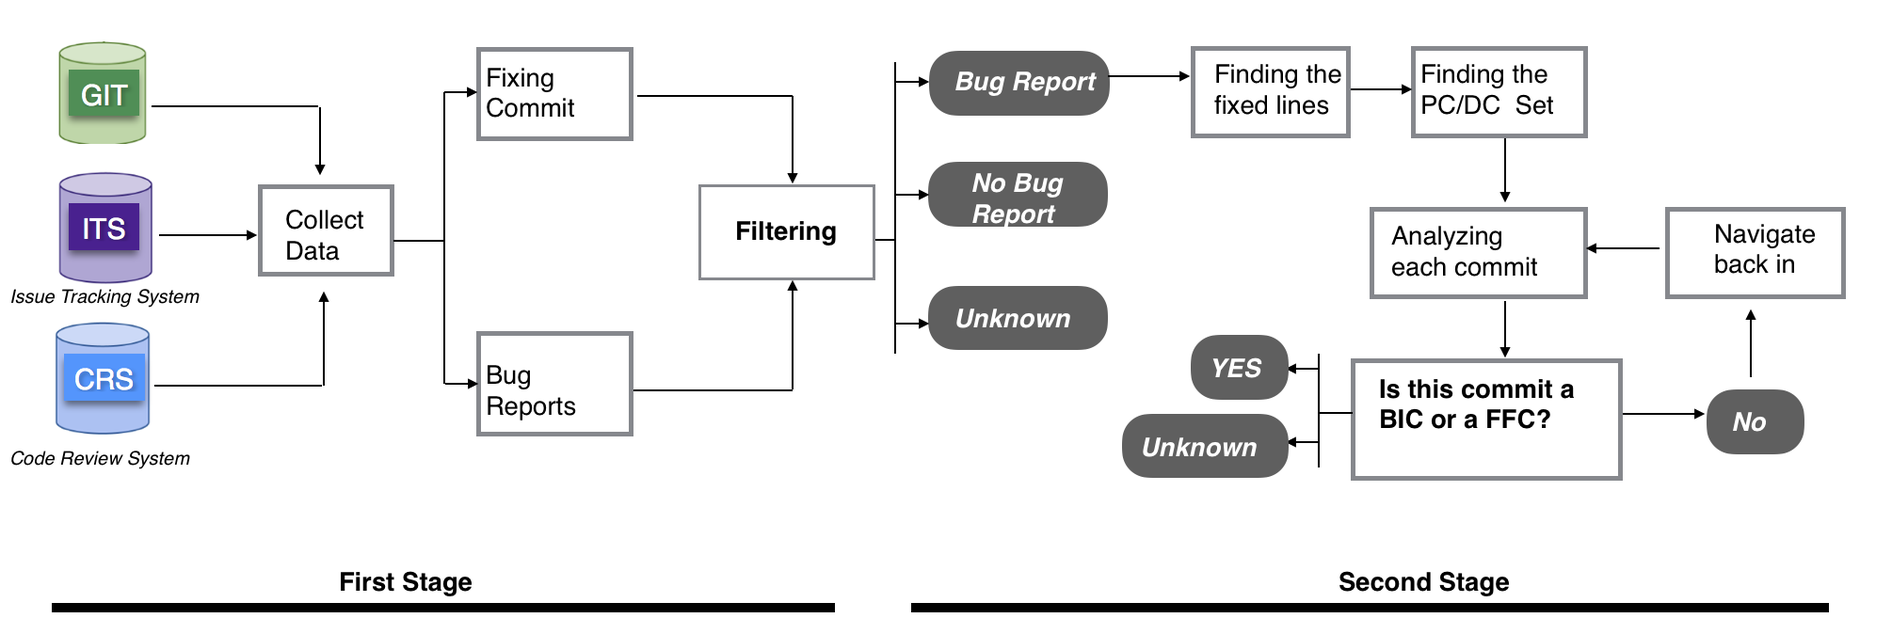
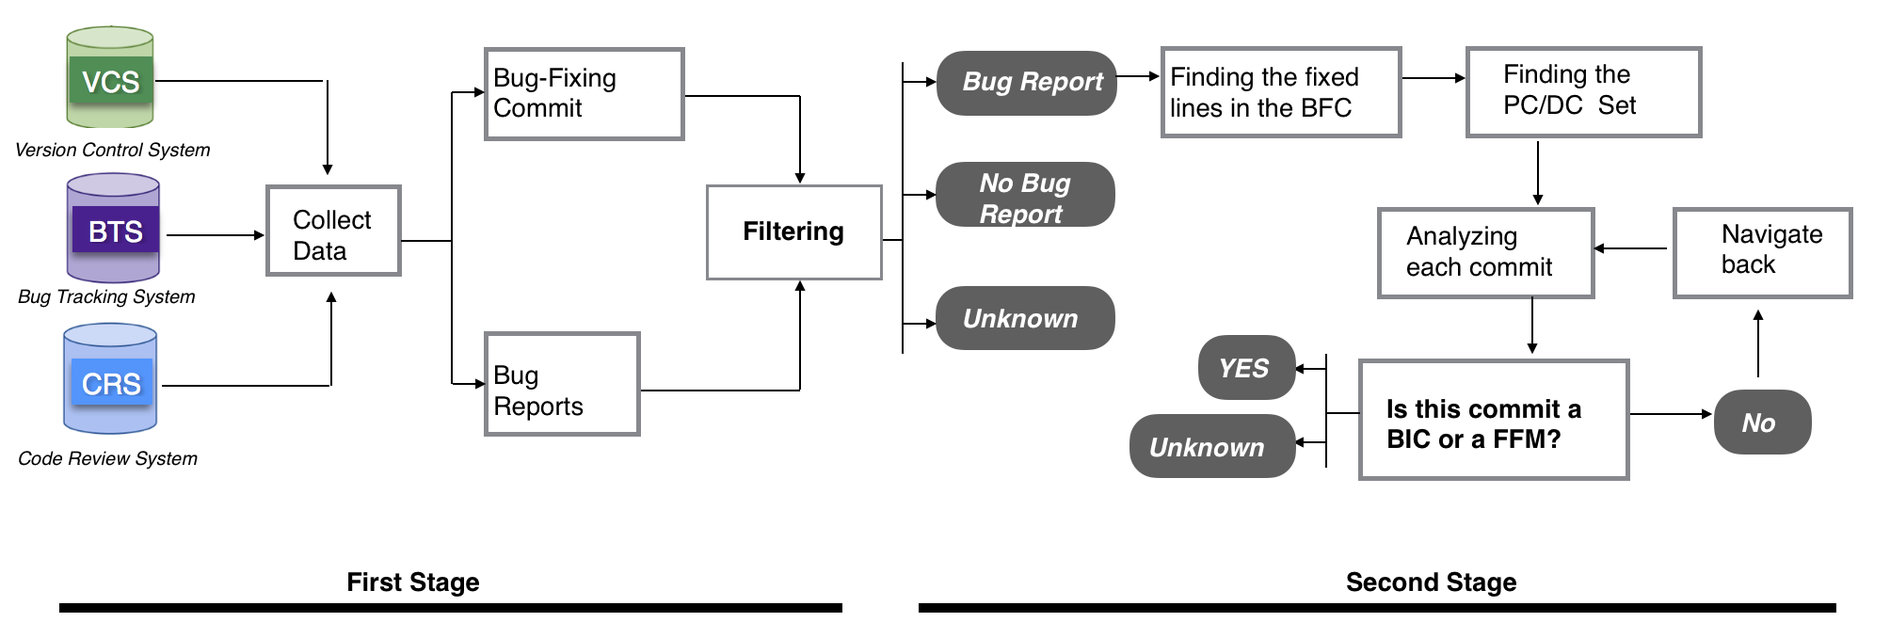
Chapter 6 until results

diff --git a/memoria.tex b/memoria.tex
@@ -1792,23 +1792,23 @@ Figure~\ref{fig:algoritmo} presents the decision tree in order find the \BIC, wh
 \cleardoublepage
 \chapter{Empirical Study on the Applicability of the Theory}
 \label{chap:application}
-This chapter presents an empirical study on the applicability of the theoretical model that was presented before in the Chapter~\ref{chap:Theory}. The empirical study was carried out through analyzing the publicity of available data sources from two OSS projects, Nova and ElasticSearch, and it can be extended to others projects as long as they use VCS and bug-tracking systems. The goal of this thesis is to describe a model to identify unequivocally the bug introduction commit or to determine whether it exists given a Bug-Fixing Commit. Furthermore, this model enables to define the ``gold standard'' to be defined where commits in the repositories are \BIC. 
+This chapter presents an empirical study on the applicability of the theoretical model that was presented before in Chapter~\ref{chap:Theory}. The empirical study was carried out through analyzing the public data sources from two OSS projects, Nova and ElasticSearch. This study can be extended to others projects as long as they use VCS and bug-tracking systems. The goal of this Chapter is the application of the proposed model, that defines the code change that introduced a bug or determines whether it exists given a Bug-Fixing Commit (\emph{BFC}). Furthermore, this model enables to define the ``gold standard'' to be defined where commits in the repositories are Bug-Introducing Commits (\emph{BICs}). 
 
-This chapter is divided into three sections. The first part it is a brief analysis that describes the projects Nova and ElasticSearch and arguments its election as cases of study to identify the origin of the bugs.
+This chapter is divided into three sections. The first part is a brief analysis that describes the projects and arguments its election as cases of study to identify the origin of the bugs.
 
-The second part clearly defines the methodology to manually analyze and identify the Bug-Introducing Commit given a Bug-Fixing Commit. This methodology explains how the raw dataset has been filtered and details a step by step approach to the stages to identify or discard the \BIC from a specific bug report.  
+The second part clearly defines the methodology to manually analyze and identify the \BIC given a \BFC. This methodology explains how the raw dataset has been filtered and details a step by step approach to the stages to identify or discard the \BIC from a specific \BFC.  
 
-Lastly, the third part presents the results after applying the model into Nova and ElasticSearch project. The results give more insight into the problem of correctly finding the \BIC by comparing the ``gold standard'' previously identified, with the performance of some state-of-the-art approaches. It computes the \emph{real} false positives and false negatives. %At the end, there is a discussion to confer the impact of the results in the community.  
+Lastly, the third part presents the results after applying the model into Nova and ElasticSearch. The results give more insight into the problem of correctly finding the \BIC by comparing the ``gold standard'' previously identified, with the performance of some state-of-the-art approaches. It computes the \emph{real} false positives and false negatives. %At the end, there is a discussion to confer the impact of the results in the community.  
 
-\section{Case study and datasets}
+\section{Case studies and datasets}
 \label{sec:case}
-There are two cases of study that are explained in subsections 6.1.1 and 6.1.2. Both projects have similar characteristics that are interesting and worthwhile to study, but they also have some differences that enables the results to be extended to other open source projects.  
+There are two case studies that are explained in subsections 6.1.1 and 6.1.2. Both projects have similar characteristics that are interesting and worthwhile to study, however, they also have some differences that may enable the results to be extended to other open source projects.  
 
 \subsection{Nova}
 \label{subsec:Nova}
 
 %We have validated our methodology using the \emph{Grounded Theory}~\cite{charmaz2014constructing} to analyze tickets from two different Open Source projects.
-Nova is the most active module of OpenStack project in terms of contributions. OpenStack is a cloud computing platform that is used to build a SaaS (software as a service) with a huge development community thereby making it an interesting project to study. OpenStack has a considerable growth of approximately 350 times in code size and 250 times in number of commits since its first release in November 2009.  Currently, it counts with more than 7,900 contributors, and significant industrial support from several major companies such as Red Hat, Huawei, IBM, HP, SUSE, etc. OpenStack is mainly written in Python. Currently it has more than 328,800 commits with more than 47 million lines of code\footnote{\url{http://stackalytics.com}}. All its history is saved and available in a version control system\footnote{\url{https://wiki.openstack.org/wiki/Getting_The_Code}}, an issue tracking system (Launchpad\footnote{\url{https://launchpad.net/openstack}}) and a source code review system (Gerrit\footnote{\url{https://review.openstack.org/}}).  Table \ref{tablenova} provides a summary of the Nova project. There are 1,602 distinct authors identified in the project from more than 200 different companies. 
+Nova is the most active module of OpenStack project in terms of contributions. OpenStack is a cloud computing platform that is used to build a SaaS (software as a service) with a huge development community thereby making it an interesting project to study. OpenStack has a considerable growth of approximately 350 times in code size and 250 times in number of commits since its first release in November 2009.  It counts with more than 7,900 contributors, and significant industrial support from several major companies such as Red Hat, Huawei, IBM, HP, SUSE, etc. OpenStack is mainly written in Python. Currently it has more than 328,800 commits with more than 47 million lines of code\footnote{\url{http://stackalytics.com}}. All its history is saved and available in a version control system\footnote{\url{https://wiki.openstack.org/wiki/Getting_The_Code}}, an issue tracking system (Launchpad\footnote{\url{https://launchpad.net/openstack}}) and a source code review system (Gerrit\footnote{\url{https://review.openstack.org/}}).  Table \ref{tablenova} provides a summary of the Nova project. There are 1,602 distinct authors identified in the project from more than 200 different companies. 
 
  \begin{table}[!t]
 \renewcommand{\arraystretch}{0.8}
@@ -1840,15 +1840,15 @@ Resolved Bugs &1930\\
 
 In addition to the enormous diversity of people and companies contributing to Nova, the project has other characteristic that make it a good case of study.
 \begin{itemize}
-	\item \textbf{Research friendly}: Both the bug tracking system and the VCS are a trustful data source for bug-fixing information. In addition, the policy of adding the link of the Bug-Fixing Commit into the bug report information is helpful when linking and analyzing two data sources.
-	\item \textbf{The openness of the data set}: all of the data analyzed in this chapter and through the thesis are publicly available. This supports the replicability of the experiments which is a fundamental part of  Empirical Software Engineering.
+	\item \textbf{Research friendly}: Both the bug tracking system and the version control system (\emph{VCS}) are a trustful data source for retrieving bug-fixing information. In addition, the policy of adding the link of the Bug-Fixing Commit into the bug report information is helpful when linking and analyzing the two data sources.
+	\item \textbf{The openness of the dataset}: all of the data analyzed in this chapter and through the thesis are publicly available. This supports the replicability of the experiments which is a fundamental part of  Empirical Software Engineering.
 	\item \textbf{Lineal VCS}: OpenStack policy maintains a lineal history because it uses rebase before the gate accepts commits instead of merging the branches. This makes analyzing Nova efficient since the cases where the bug might be present in some simultaneously existing branches can be reduced.  
-	\item \textbf{Programming Language}: Nova uses python as programming language and Python is an interpreted language that do not need to be compiled before running. In addition, Python is dynamically typed which means that the type for a value is decided at runtime and not in advance. These specific characteristics of python might affect the way that bugs are inserted into the source code of a project.
+	\item \textbf{Programming Language}: Nova uses Python as programming language and it is an interpreted language that do not need to be compiled before running. In addition, Python is dynamically typed which means that the type for a value is decided at runtime and not in advance. These specific characteristics of Python might affect the way that bugs are inserted into the source code of a project.
 	\end{itemize}
 
 \paragraph{Nova Dataset:}
 
-Launchpad works with issue reports called tickets, which describe bug reports, feature requests, maintenance tickets, and even design discussions. We retrieved randomly 125 closed tickets from Launchpad that were reported during 2015 and had a commit merged into the code source. However only tickets reporting a real bug was studied because it is necessary that a bug exits in order to identify its origin. Thus, to ensure that the tickets describe real bug reports, two different researchers were assigned to analyze them. This is not a trivial task; it is very labor intensive as it has to be done manually. As the task is repetitive, we developed a web-based tool\footnote{\url{http://bugtracking.libresoft.info}} described in Rodriguez \emph{et al.}~\cite{rodriguez2016bugtracking} that helps with the classification process. This tool offers information that is relevant to decide if a ticket is describing a bug report or using information extracted automatically from the project repositories. As it offers a web-based interface, the tool allows for collaboration. Traceability and transparency in the identification of bug reports is also possible as all decisions are stored. 
+Launchpad works with issue reports called tickets. These tickets describe bug reports, feature requests, maintenance tickets, and even design discussions. We randomly retrieved 125 closed tickets from Launchpad that had a commit merged into the source code and were reported during 2015. However, only tickets that report a real bug was studied because it is necessary that a bug exits in order to identify its origin. Thus, to ensure that the tickets described real bug reports, two different researchers were assigned to analyze them. This procedure was not a trivial task; it is very labor intensive as it has to be done manually. As the task is repetitive, we developed a web-based tool\footnote{\url{http://bugtracking.libresoft.info}} described in Rodriguez \emph{et al.}~\cite{rodriguez2016bugtracking} that helps with the classification process. This tool offers relevant information to decide if a ticket is describing a bug report or not, this information was extracted automatically from the project repositories. As it offers a web-based interface, the tool allows for collaboration. Traceability and transparency in the identification of bug reports is also possible as all decisions are stored. 
 
 Each ticket was (manually) categorized into one of following three groups:
 \begin{enumerate}
@@ -1856,13 +1856,13 @@ Each ticket was (manually) categorized into one of following three groups:
   \item \textit{Not Bug Report}: The ticket describes a feature, an optimization/refactoring of the code, changes in test files, or any other situation\ldots but not a bug report.
   \item \textit{Undecided}: The ticket presents a vague description and cannot be assigned without doubts to any of the previous groups.
 \end{enumerate}
-
-Subsequently, the tickets agreed\footnote{Please, consider the reading of the paper for further information about the analysis and the ratio of agreement between the researchers}  upon by both researchers as part of the bug report were included into the final dataset. Then, the tickets were linked to their Bug-Fixing Commits.The final dataset counts up to 60 real bug reports that are linked with real Bug-Fixing Commits.
+         
+Subsequently, the tickets agreed\footnote{Please, consider the reading of the paper for further information about the analysis and the ratio of agreement between the researchers}  upon by both researchers as part of the bug report were included into the final dataset. Then, the tickets were linked to their Bug-Fixing Commits. The final dataset counts up to 60 real bug reports that are linked with real Bug-Fixing Commits.
 
 \subsection{ElasticSearch}
 \label{subsec:ES}
 
-ElasticSearch is a distributed Open Source search and analytics engine written in Java. It is continuously evolving since its first release in 2010 and currently counts with more than 3,900 commits. This project was  chosen because it has a similar number of commits to OpenStack and its policy of labeling issues is very strict. In the project they use the label ``bug'' to describe issues considered as bug by the developers of ElasticSearch. Thus, researchers can rely on the developers' opinion, and can be sure that the issues retrieved from the issue tracking system are real bug reports and that their Bug-Fixing Commit is fixing a bug. The code of ElasticSearch is hosted in GitHub\footnote{\url{https://github.com/elastic/elasticsearch/}}, and its issue list is available in GitHub\footnote{\url{https://github.com/elastic/elasticsearch/issues}} as well. Table \ref{tableES} provides a summary of the ElasticSearch project. There are 1,000 distinct authors identified in the project and more than 4,500 closed bug reports. 
+ElasticSearch is a distributed Open Source search and analytics engine written in Java. It is continuously evolving since its first release in 2010 and currently counts with more than 3,900 commits. This project was  chosen because it has a similar number of commits to OpenStack and its policy of labeling issues is very strict. In the project, the developers use the label ``bug'' when the issue describes a bug according to their opinion. Thus, researchers can rely on the developers' opinion, and can be sure that the issues retrieved from the issue tracking system are real bug reports and as a consequence, their (\emph{BFCs}) are fixing real bugs. The code of ElasticSearch is hosted in GitHub\footnote{\url{https://github.com/elastic/elasticsearch/}}, and its issue list is available in GitHub\footnote{\url{https://github.com/elastic/elasticsearch/issues}} as well. Table \ref{tableES} provides a summary of the ElasticSearch project. There are 1,000 distinct authors identified in the project and more than 4,500 closed bug reports. 
 
  \begin{table}[!t]
 \renewcommand{\arraystretch}{0.8}
@@ -1890,17 +1890,17 @@ Resolved Bugs & 4958\\
 \end{tabular}
 \end{table}
 
-In addition to the enormous diversity of people and companies contributing to Nova, the project has other characteristic that makes it a good case study.
+In addition to the enormous diversity of people and companies contributing to ElasticSearch, the project has other characteristic that makes it a good case study.
 \begin{itemize}
-	\item \textbf{Research friendly}: The code and the bug reports are hosted in GitHub and it is a trustful data source for bug-fixing information. In addition, the policy of adding the link of the bug report number or the pull request number into the Bug-Fixing Commit is helpful when linking and analyzing two data sources.
-	\item \textbf{The openness of the data set}: all of the data analyzed in this chapter and the thesis is publicly available. This helps with the replicability of the experiments which is a fundamental part of Empirical Software Engineering.
-	\item \textbf{No Lineal VCS}: Contrary to OpenStack, ElasticSearch repository counts with more than 160 branches with no lineal history. This makes ElasticSearch more complicated to analyze.
-	\item \textbf{Programming Language}: ElasticSearch uses Java as the programming language. Java encourages error-free programming as it is strictly typed, performs run-time checks and is independent of hardware. These specific characteristics of Java might affect the way that bugs are inserted into the source code of a project.
+	\item \textbf{Research friendly}: The code and the bug reports are hosted in GitHub and it is a trustful data source for bug-fixing information. In addition, the policy of adding the link of the bug report number or the pull request number into the Bug-Fixing Commit is helpful when linking and analyzing the two data sources.
+	\item \textbf{The openness of the dataset}: all of the data analyzed in this Chapter and in the thesis is publicly available. This helps with the replicability of the experiments which is a fundamental part of Empirical Software Engineering.
+	\item \textbf{No Lineal VCS}: Contrary to OpenStack, ElasticSearch repository counts with more than 160 branches with no lineal history. This might make ElasticSearch more complicated to analyze.
+	\item \textbf{Programming Language}: ElasticSearch uses Java as the programming language. Java encourages error-free programming as it is strictly typed, it performs run-time checks and is independent of hardware. These specific characteristics of Java might affect the way that bugs are inserted into the source code of a project.
 	\end{itemize}
 
 \paragraph{Dataset ElasticSearch}: 
 
-ElasticSearch works with issue reports labeled as ``bug'' which discards the necessity of filtering issues that are not describing real bug reports. Thus, since ElasticSearch and Nova have similar amounts of commits, the same amount of closed bugs that are in the Nova dataset are randomly retrieved, with a total of 60 bugs reported during 2015 that have a commit merged into the code source. Then, these bug reports were linked to their Bug-Fixing Commits, thereby the final dataset counts up to 60 real bug reports that are linked with real Bug-Fixing Commits.
+ElasticSearch works with issue reports labeled as ``bug'' which discards the necessity of filtering those issues that are not describing real bug reports. Thus, since ElasticSearch and Nova have similar amounts of commits, the same amount of closed bugs that are in the Nova dataset are randomly retrieved, with a total of 60 bugs which were reported during 2015 and which had a commit merged into the code source. Then, these bug reports were linked to their Bug-Fixing Commits, thereby the final dataset counts up to 60 real bug reports that are linked with real Bug-Fixing Commits.
 
 \section{Methodology}
 \label{sec:methodology}
@@ -1922,62 +1922,63 @@ Figure~\ref{fig:diagram} provides an overview of each step involved in our study
 
 This stage ensures that the bug reports stored in the datasets can be applicable to our model. Despite the strict policy of bug labeling in ElasticSearch and the agreement on classifying bug reports from other issues in Nova, this stage analyzed carefully each piece of information in the bug reports to ensure the ``gold standard''. Thus, the dataset should only store bugs that are considered bugs at the moment of bug fixing. For example, there is a (hypothetical) test that fails right before the Bug-Fixing Commit and does not fail right after it.  This also ensures that if there are issues that are reported as bugs but are discovered to be new feature requests or improvement suggestions as discussed, they are excluded. 
 
-\subsection{Second Stage: Identifying the First Failing Commit and the Bug Introducing Commit of a bug report}
+\subsection{Second Stage: Identifying the First Failing Moment and the Bug Introducing Commit of a Bug-Fixing Commit}
 \label{subsec:methodologySS}
 
-The input of this stage is a set of bug report from Nova and ElasticSearch that describe bugs in the moment of bug fixing. The steps in this stage consists of manually identifying the corresponding Bug-Introducing commit and the First-Failing commit for a Bug-fixing commit, or to decide whether or not there is a \BIC. The identification of \BIC given a \BFC means that the bug was present at the time of committing the lines. Since the \BIC can be in the previous commit or in any of the descendant or ancestor commits, it is necessary to manually analyze them in order to ensure the credibility of the ``gold standard''. In cases where the bug was not present at the time the lines were written, then there is not a \BIC and it becomes necessary to find the \FFC. To better understand this process, the steps are detailed in the following paragraphs. Remember the terminology described in section 5.1.1 that explains concepts such as a the sets of \setBFC{b}, of \PC{b}, of \ACSet{b}, etc. 
+The input of this stage is a set of bug reports from Nova and ElasticSearch that describe bugs in the moment of their fix. The steps in this stage consists of manually identifying the corresponding \BIC and the \FFC for a \BFC, or to decide whether or not there is a \BIC. The identification of a \BIC given a \BFC means that the bug was present at the time of committing the lines. Since the \BIC can be any of the the previous commits, descendant commits or ancestor commits, it is necessary to manually analyze them in order to ensure the credibility of the ``gold standard''. In cases where the bug was not present at the time the lines were written, then there is not a \BIC and it becomes necessary to find the \FFC. To better understand this process, the steps are detailed in the following paragraphs. Remember the terminology described in section 5.1.1 that explains concepts such as a the sets of \setBFC{b}, of \PC{b}, of \ACSet{b}, etc. 
 
 
 \subsubsection{Finding the lines that fixed the bug}
 
 At this stage, the source code that fixed the bug must be identified; a generic bug is referred to as $b$. Therefore, it is important to:
 	\begin{itemize}
-		\item Identify the change(s) that fixed the bug, \setBFC{b}. In most of the analyzed cases this set was always singleton, meaning that in each bug there is a unique \BFC. However, in the bug report \#1442795\footnote{\url{https://bugs.launchpad.net/nova/+bug/1442795}} there are two different \BFC that fixed the bug. To simplify this process, the methodology assumes that the \setBFC{b} is singleton, and in the case where more than one \BFC fixed the bug, the methodology will analyzed both Bug-Fixing Commit.
-		\item Find the lines that the \setBFC{b} touched to fix the bug, \LC{c} where $c$ is the \BFC:
-	In the Bug-Fixing Commit linked to a bug report, there is all the information related with the code review process. By applying \textit{``git diff''} it is possible to identify what lines have been added, modified or deleted between the version after the \setBFC{b} and the previous one. There is also the possibility to visualize these changes between the version after the \setBFC{b} and the previous one
- commit using GitHub. GitHub provides a friendly visualization.
+		\item Identify the change(s) that fixed the bug, \setBFC{b}. In most of the analyzed cases this set was always singleton, meaning that in each bug there was a unique \BFC. However, in the bug report \#1442795\footnote{\url{https://bugs.launchpad.net/nova/+bug/1442795}} there were two different \emph{BFCs} that fixed the bug. To simplify this process, the methodology assumes that the set of \setBFC{b} is singleton, and in the case where more than one \BFC fixed the bug, the methodology will analyze both \emph{BFCs}.
+		\item Find the lines that the \setBFC{b} modified to fix the bug, \LC{c} where $c$ is the \BFC:
+	In the bug report, there is a lot of information related with the code review process and the \BFC. By applying \textit{``git diff''} it is possible to identify what lines have been added, modified or deleted between the version after the \setBFC{b} and the previous one. There is also the possibility to visualize these changes between the version after the \setBFC{b} and the previous one
+ commit using the friendly visualization that GitHub provides.
  		\item Filter out lines that are not code:
-		Lines that have been modified, but do not contain source code (e.g., comments or blank lines) are not considered, and as a consequence they are not analyzed. In addition, there was a \BFC\footnote{\url{https://github.com/elastic/elasticsearch/commit/beaa9153a629c0950182e4e8c4f8eedd1c63f49f}} that closed two different bug reports. In this case, the lines related to the other bug was filtered out.	
+		Lines that have been modified, but do not contain source code (e.g., comments or blank lines) are not considered, and as a consequence they are not analyzed. In addition, there was a \BFC\footnote{\url{https://github.com/elastic/elasticsearch/commit/beaa9153a629c0950182e4e8c4f8eedd1c63f49f}} that closed two different bug reports. In this case, the lines related to the bug that was not under analysis were filtered out.	
 	\end{itemize}
 
-\subsubsection{Determining, for each of those lines, \LC{c}, what commit last changed the lines}
+\subsubsection{Determining, for each of those lines, \LC{c}, what immediate previous commit last changed the lines}
 
-Each individual line touched by the \BFC has only one previous commit. However, there could potentially be as many previous commits as modified lines in the \BFC, (see the genealogy tree in subsection 5.1.2). Thus, taking this genealogy tree as reference, the result is a set of all previous commits of the bug $b$, \PC{b}.  
+Each individual line touched by the \BFC has only one previous commit. However, there could potentially be as many previous commits as modified lines in the \BFC, (see the genealogy tree in subsection 5.1.2). Thus, taking this genealogy tree as reference, the result is a set of all previous commits of the bug $b$, we will refer to it as \PC{b}.  
 
-\subsubsection{Analyzing each of these previous commit, and their descendant commits, to determine the \BIC and the \FFC}
+\subsubsection{Analyzing each of these previous commit and their descendant commits to determine the \BIC and the \FFC}
 
-This analysis uses information available in the description of the ticket as well as from the logs of the \BFC and commits in the set of \PC{b}. After understanding the bug and the changes that fixed the bug, it is necessary to identify the \BIC and whether it exists, as well as the \FFC.Thus, the identification of the \BIC starts with the analysis of the \PC{b}, for each of the \PC{b} the lines changed are analyzed in order to find which one introduced the bug. At this point, there are three different scenarios and the behavior is different depending on the following conditions:
+This analysis uses information available in the description of the ticket as well as from the logs of the \BFC and commits in the \PC{b}. After understanding the bug and the changes that fixed the bug, it is necessary to identify the \BIC and whether it exists, as well as the \FFC.Thus, the identification of the \BIC starts with the analysis of the \PC{b}, for each of the commits belong to the \PC{b}, the lines changed are analyzed in order to find which one introduced the bug. At this point, there are three different scenarios and the behavior is different depending on the following conditions:
 
 \begin{enumerate}
 	\item \textit{The commit inserted the bug}: This commit is the \BIC because it inserted the buggy lines at the moment of their writing. It was possible to identify the \BIC which is also the \FFC because it is the first commit that manifested the wrong behavior. According to the theoretical model, the \TSB passes in the \BFC and the \BIS is one of the snapshot of a previous commit of the \BFC.
 	\item \textit{The commit does not insert the bug}: In this case there will be two possible outcomes:
 		\begin{itemize}
 			\item The lines in the commit are correct, they do not insert the bug at the time of their writing and other factors caused the lines to became to be buggy. There is no \BIC in this scenario and the analysis should focuses on understanding whether this pc is the \FFC. According to the theoretical model, the \TSB is run in all of the \ACSet{b} and it passes in the \BFC but it always fails in the ancestor snapshots. However, if the environment is changed, the \TSB fails in the \BFC but it passes in the snapshot, and the first \BIS that passes in the sequence of \BIS is the \FFC.
-			\item The lines in the commit are syntactic sugar and semantically equivalent modifications (refactoring): This means that the commit retains the same behavior as before, thereby it is required to navigate back into, the \DCSet{b} and start again in the first point of this list.
+			\item The lines in the commit are syntactic sugar or semantically equivalent modifications (refactoring): This means that the commit retains the same behavior as before, thereby it is required to navigate back into, the \DCSet{b} and start again in the first point of this list.
 		\end{itemize}
-	\item \textit{It is not sure whether the commit inserted the bug}: In this case it is important to continue navigating back into the \DCSet{b}, if this commit inserted for the first time in the descendant lines of the \LC{c} and it is not certain that they are buggy, the commit is classified as ``undecided''. This means that after the analysis the \BIC was unable to be found manually despite its existence, or their is the case that the \FFC or \BIC was unable to be found due to the lack of context.
+	\item \textit{It is not sure whether the commit inserted the bug}: In this case, it is important to continue navigating back into the \DCSet{b}, if this commit inserted for the first time the lines of the \LC{c} and it is not clear whether they are buggy, the commit is classified as ``undecided''. This means that after the analysis, the \BIC was unable to be found manually despite its possible existence, or there is the case that the \FFC or \BIC was unable to be found due to the lack of context.
 \end{enumerate}
 
 
 \subsection{Outcomes}
 \label{subsec:OutcomeES}
 
-At the end of the process there are three possible outcomes for each bug report analyzed. The outcomes are related with the unequivocally identification of the \BIC and \FFC given a \BFC.
+At the end of the process there are three possible outcomes for each bug report analyzed. The outcomes are related with the identification of the \BIC and \FFC given a \BFC.
 These outcomes are explained in the following list:  %\subsubsection{Tickets}
 
 %There are three possible outcomes for each bug report analyzed:
 \begin{itemize}
-	\item A bug report has a Bug-Introducing Change: In this case it is not sure whether there is at least one bug introducing change among the previous commit set, descendant commit set or ancestor commits set. However, during the manual analysis it may occur that:
+	\item A \BFC has a \BIC: In this case it is sure that there is at least one \BIC among the previous commit set, descendant commit set or ancestor commit set. However, during the manual analysis it may occur that:
 		\begin{enumerate}
-			\item The moment was able to be identified manually or,
-			\item The moment was unable to be identified manually. 
+			\item The \BIC was able to be identified manually or,
+			\item The \BIC was unable to be identified manually. 
 		\end{enumerate}
 		Furthermore, in this scenario, the \BIC is also the \FFC.
-	\item A bug report does not have a Bug-Introducing Change: In this case, it can be sure that any given line contained the bug when it was committed into the source code, and other factors such as modification in internal resources, changes in external resources, buggy code in third-parties or changes in the requirements that invalidate previous assumptions are the cause of the Bug-Fixing Commit. It can also be confirmed that none of the ancestor commits inserted the wrong lines, thereby none of them can be blamed and only the first time that the bug manifested in the code can be identified. Also, in this case it may occur that:
+	\item A \BFC does not have a \BIC: In this case, it can be sure that any line contained the bug when it was committed into the source code, and due to other factors such as modifications in internal resources, changes in external resources, buggy code in third-parties or changes in the requirements that invalidate previous assumptions may be the cause of the bug. It can also be confirmed that none of the ancestor commits inserted the wrong lines, thereby none of them can be blamed and only the first moment that the bug manifested itself in the code can be identified. Also, in this case it may occur that:
 	\begin{enumerate}
-			\item The moment was able to be identified manually or,
-			\item The moment was unable to be identified manually. 		\end{enumerate}
-	\item It is not clear whether or not a bug report has a Bug-Introducing Change: Some bug reports do not detail enough information about the failure and the Bug-Fixing Commit is not sufficient in deciding whether or not there is a \BIC. Also, some commits are very complex to understand their changes and it cannot be decided whether it inserted the bug or not.
+			\item The \FFC was able to be identified manually or,
+			\item The \FFC was unable to be identified manually. 		
+	\end{enumerate}
+	\item It is not clear whether or not a \BFC has a \BIC: Some bug reports do not detail enough information about the failure and the \BFC is not sufficient in deciding whether or not there is a \BIC. Also, some commits have changes that are very complex to understand and we cannot decide whether they inserted the bug or not.
 
 \end{itemize}
 
